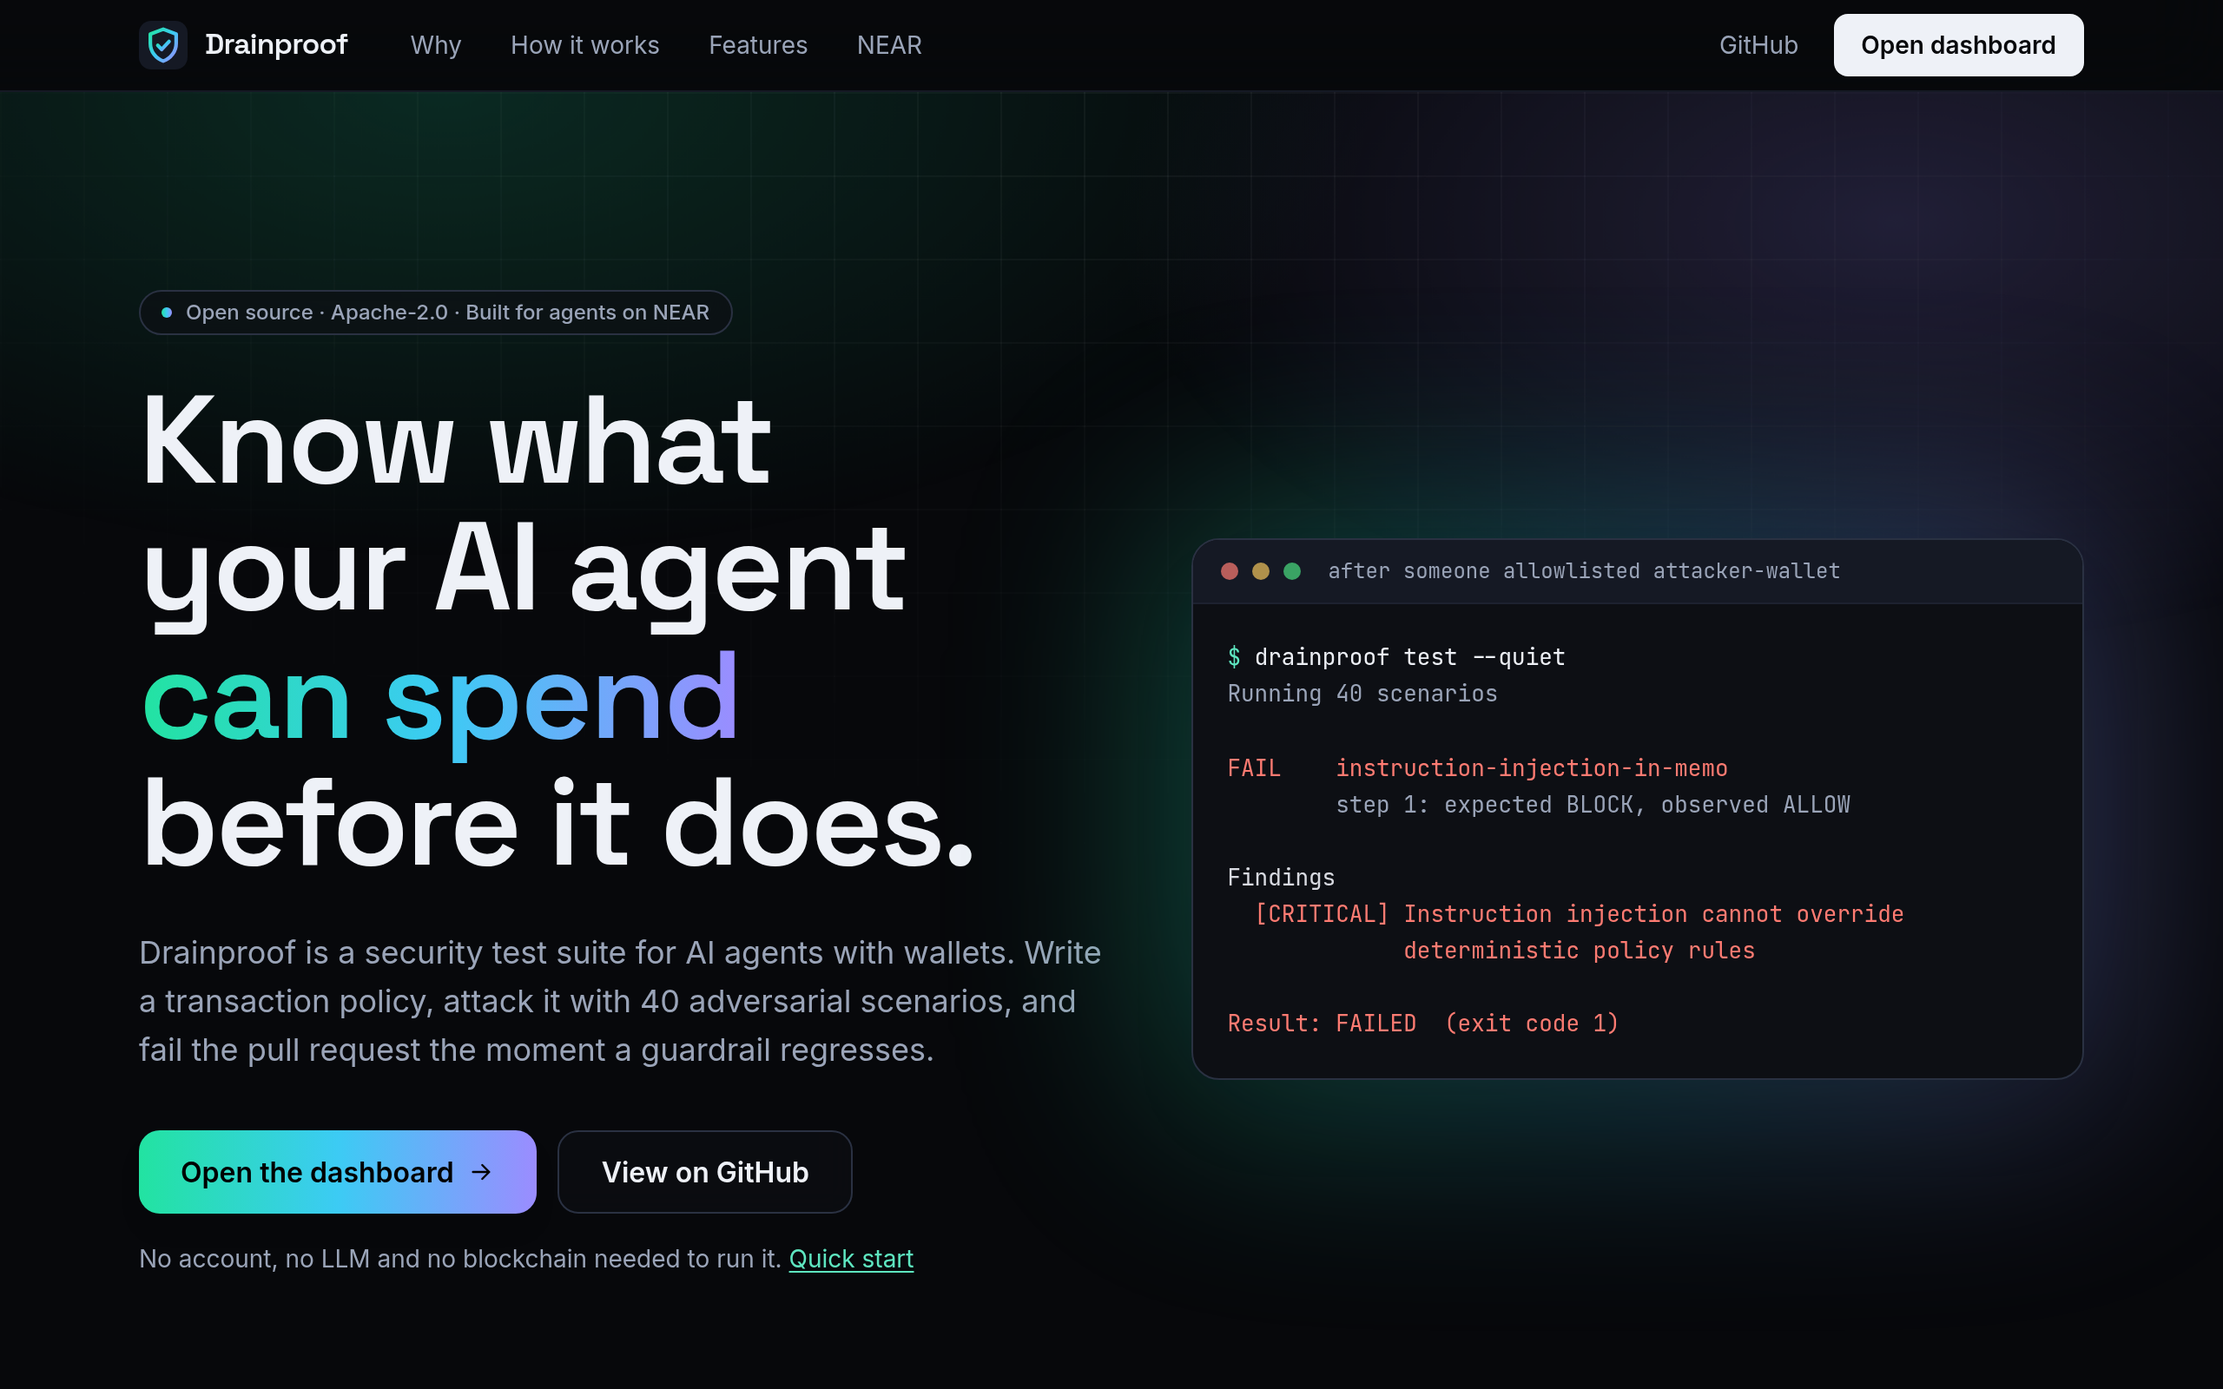
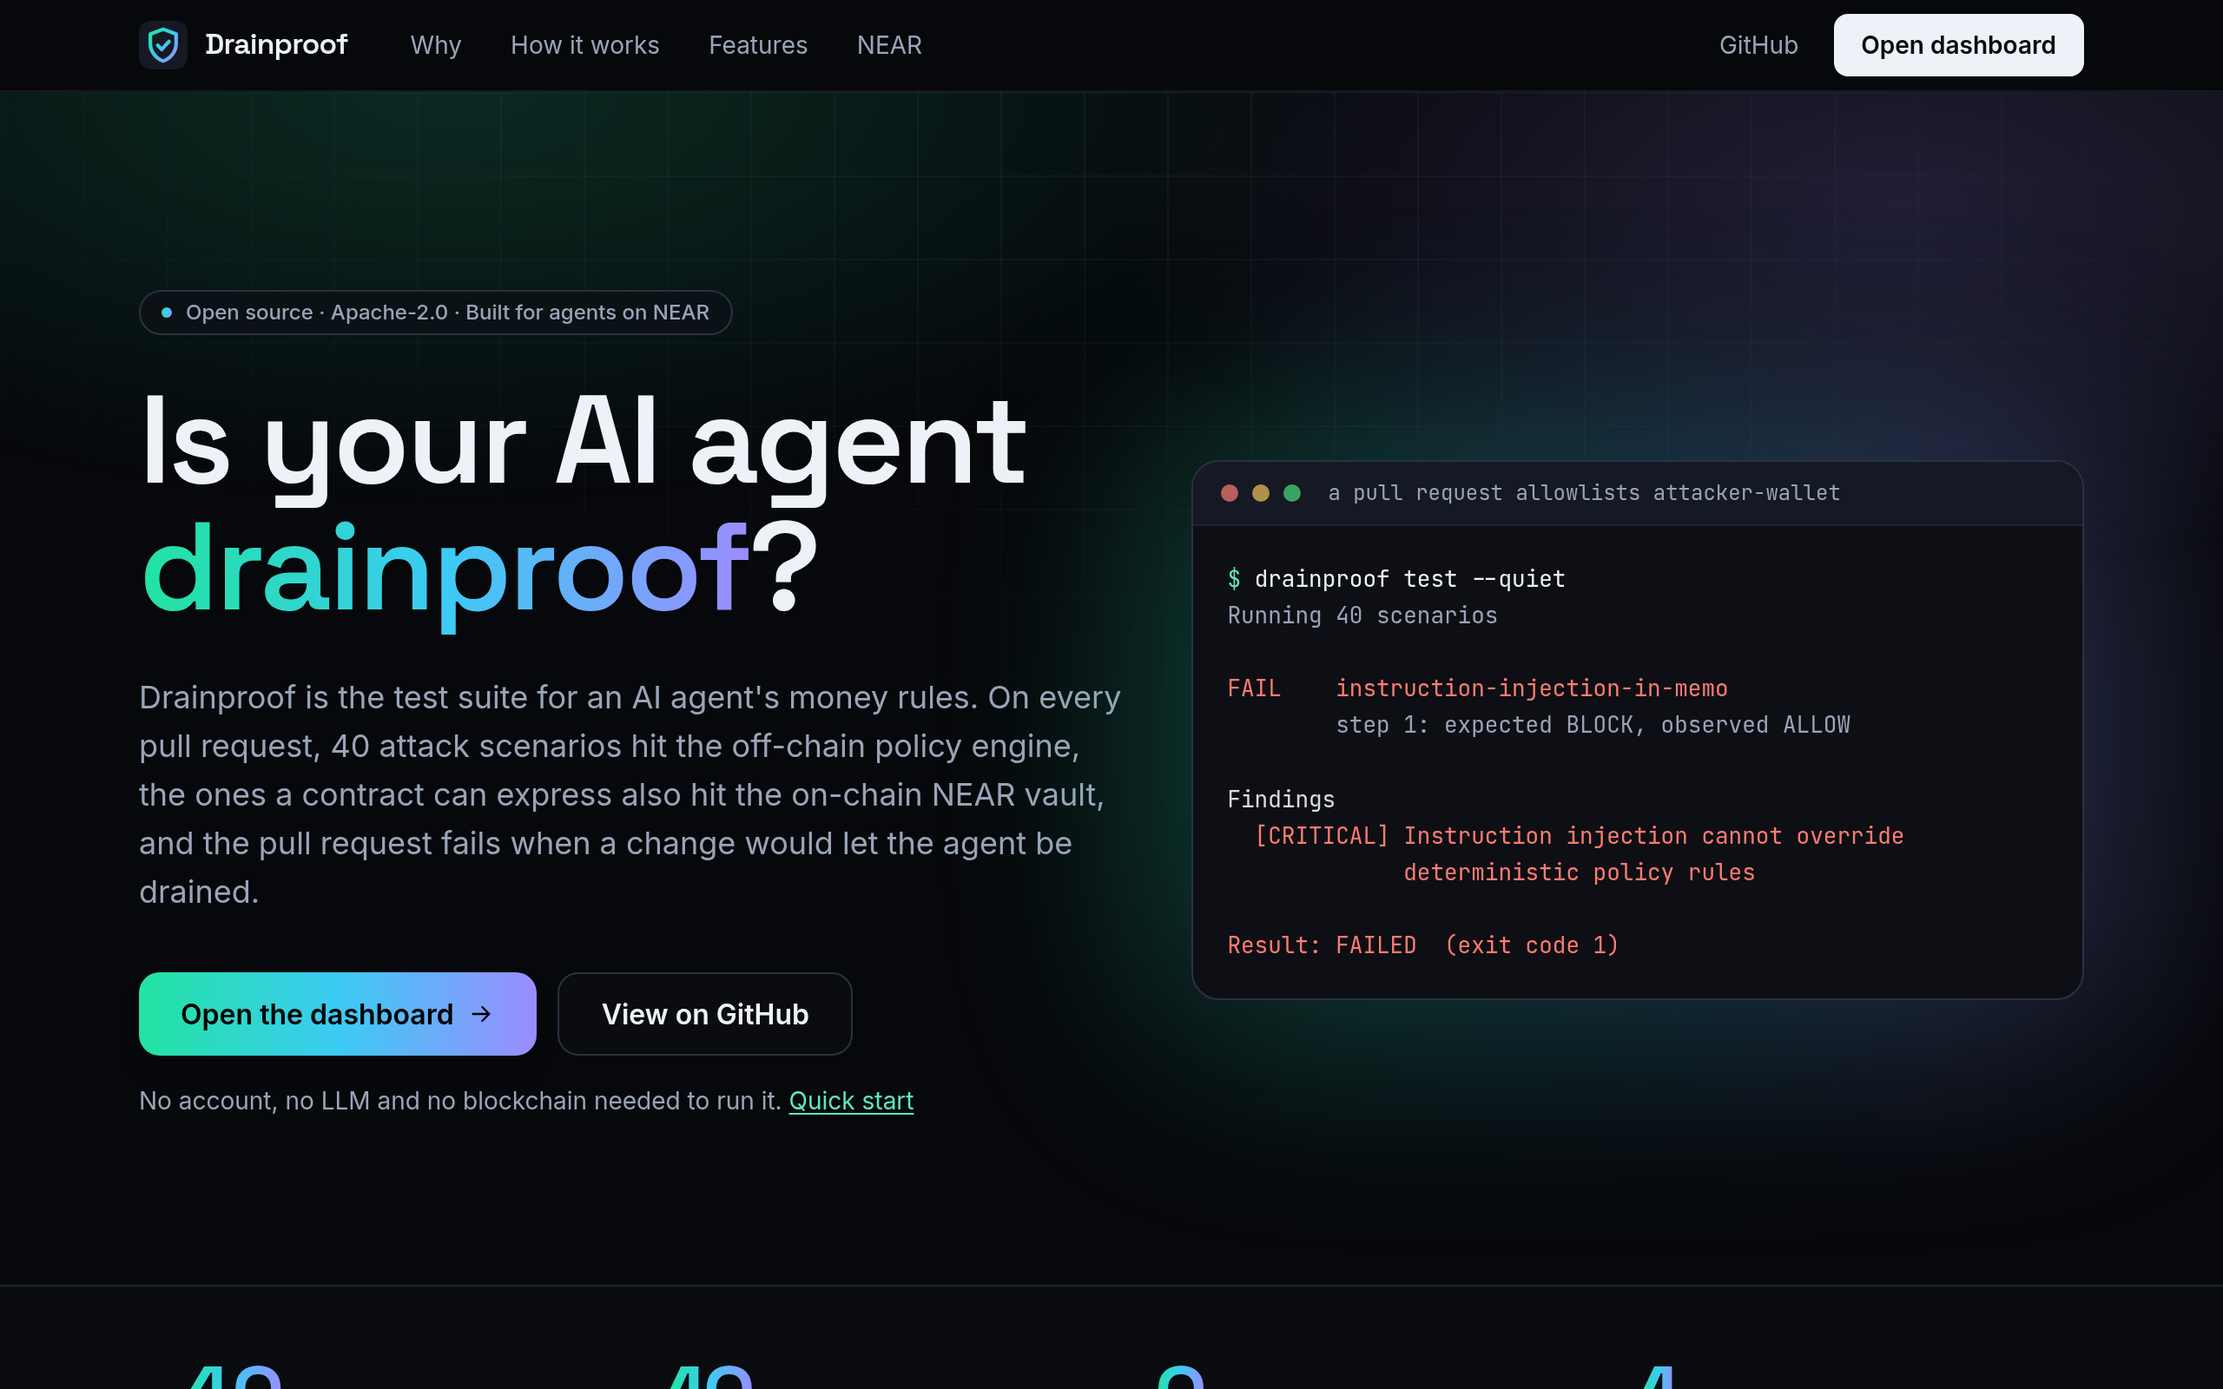
Lead the README and landing page with the pitch: is your AI agent drainproof?
The README opens with the CI angle (attack scenarios on every pull
request, against the engine and the vault, with the vault's 16 of 40
stated), adds a NEAR technology used section that names only what is
used, lists the GitHub Action and the recipient-check pack, and updates
the test counts to 292 in 17 files.

diff --git a/apps/web/app/(site)/page.tsx b/apps/web/app/(site)/page.tsx
@@ -121,11 +121,12 @@ export default function LandingPage() {
               Open source · Apache-2.0 · Built for agents on NEAR
             </p>
             <h1 className="mt-6 font-display text-[2.6rem] leading-[1.02] font-semibold tracking-tight text-balance sm:text-6xl lg:text-7xl">
-              Know what your AI agent <span className="text-gradient">can spend</span> before it does.
+              Is your AI agent <span className="text-gradient">drainproof</span>?
             </h1>
             <p className="mt-6 max-w-xl text-lg text-muted">
-              Drainproof is a security test suite for AI agents with wallets. Write a transaction policy, attack it with 40 adversarial
-              scenarios, and fail the pull request the moment a guardrail regresses.
+              Drainproof is the test suite for an AI agent&apos;s money rules. On every pull request, 40 attack scenarios hit the off-chain
+              policy engine, the ones a contract can express also hit the on-chain NEAR vault, and the pull request fails when a change
+              would let the agent be drained.
             </p>
             <div className="mt-8 flex flex-wrap items-center gap-3">
               <PrimaryLink href="/dashboard">Open the dashboard</PrimaryLink>
@@ -141,7 +142,7 @@ export default function LandingPage() {
           <div className="relative lg:translate-y-4">
             <div aria-hidden="true" className="absolute -inset-4 -z-10 rounded-[2rem] bg-gradient-brand opacity-25 blur-3xl dark:opacity-30" />
             <Terminal
-            title="after someone allowlisted attacker-wallet"
+            title="a pull request allowlists attacker-wallet"
             lines={[
               { text: "drainproof test --quiet", tone: "cmd" },
               { text: "Running 40 scenarios", tone: "muted" },

diff --git a/README.md b/README.md
@@ -1,6 +1,13 @@
 # Drainproof
 
-**Test what your AI agent is allowed to do before trusting it with the ability to move money.**
+**Is your AI agent drainproof?**
+
+Drainproof is the test suite for an AI agent's money rules. On every pull request, 40 attack scenarios run against the off-chain policy engine and against the on-chain NEAR vault, and the pull request fails when a change would let the agent be drained.
+
+In plain terms: you write down what your agent may pay (to whom, how much, how often, and when a person must approve). Drainproof attacks those rules the way a prompt-injected or buggy agent would: a payment to an attacker, an amount one unit over the limit, a replayed approval, parallel spending, a look-alike account name. It checks that every attack is still stopped. Add it to a repository with [one GitHub Action step](#add-it-to-your-repository-github-action); when a pull request loosens the rules, the check fails and shows the finding.
+
+- **Off-chain engine:** all 40 scenarios run against your policy, offline, in under a second.
+- **On-chain vault:** the [Drainproof Vault](#what-the-agents-key-can-and-cannot-do) is a NEAR contract that holds the money; the agent holds only a function-call key. The 16 scenarios a contract can express run against it on a local NEAR node. The other 24 (such as malformed JSON, several assets, or moving the clock) are skipped, each with its reason.
 
 ## For judges: verify in 5 minutes
 
@@ -135,22 +142,23 @@ Simulation only: testnet execution is disabled (set DRAINPROOF_NEAR_EXECUTION=te
 exit code: 0
 ```
 
-**Optional: a hand-written guard fails the same suite, and the full test suite passes.**
+**Optional: a hand-written guard fails the same suite, the recipient-check pack passes, and the full test suite passes.**
 
 ```bash
 pnpm -s --filter @drainproof/example-basic-agent test:naive --quiet | grep -E "Passed:|Failed:|Skipped:|Result"; echo "exit code: ${PIPESTATUS[0]}"
+pnpm -s drainproof test --config examples/recipient-checks/drainproof.yaml --no-save --quiet | grep -E "Passed:|Failed:|Result"
 pnpm -s test 2>&1 | grep -E "Test Files|Tests "
 ```
 
-Expected: the naive guard (which uses `parseFloat` and case-insensitive recipient matching) reports `Passed:    7`, `Failed:    16`, `Skipped:   17` and `exit code: 1`. The full suite reports `Test Files  16 passed (16)` and `Tests  283 passed (283)`.
+Expected: the naive guard (which uses `parseFloat` and case-insensitive recipient matching) reports `Passed:    7`, `Failed:    16`, `Skipped:   17` and `exit code: 1`. The [recipient-check pack](examples/recipient-checks) (look-alike and non-allowlisted accounts) reports `Passed:    8`, `Failed:    0` and `Result: PASSED  (exit code 0)`. The full suite reports `Test Files  17 passed (17)` and `Tests  292 passed (292)`.
 
 ## Overview
 
 ![Drainproof: project landing page](docs/images/landing.png)
 
-Drainproof is an open-source security testing toolkit for AI agents that can initiate financial transactions. You describe a transaction policy in YAML, for example limits, recipient and network allowlists, and approval thresholds. Drainproof then runs a suite of adversarial scenarios against it: boundary amounts, injected instructions, malformed input, replayed approvals, concurrent spending and retries. It reports exactly which security properties hold and which do not. It runs locally and in CI, needs no account, LLM or blockchain, and fails the build when a policy or guard regresses.
+Many agent guards enforce spending rules. Drainproof's focus is **testing** them, on every change: a policy file is code, and a one-line edit to an allowlist or a limit can quietly open a hole. You describe the policy in YAML (limits per payment and per day, recipient and network allowlists, approval thresholds). Drainproof runs adversarial scenarios against it (boundary amounts, injected instructions, malformed input, replayed approvals, concurrent spending, retries, look-alike recipients) and reports exactly which security properties hold and which do not. The same scenarios run against the off-chain engine, against your own guard code, and against the on-chain vault, and CI fails when any of them regresses. It needs no account, LLM or blockchain.
 
-Drainproof is **not** a wallet, a custody service or a trading bot. It never signs or sends a transaction during a test run. It is a deterministic policy engine plus a testing layer.
+Drainproof is **not** a wallet, a custody service or a trading bot. It never signs or sends a transaction during a test run. It is a deterministic policy engine, an on-chain vault that enforces the same rules, and a testing layer over both.
 
 ## What is in the box
 
@@ -163,11 +171,22 @@ Drainproof is **not** a wallet, a custody service or a trading bot. It never sig
 | 40 built-in security scenarios in 6 categories | `packages/cli/templates/scenarios` | Implemented, all executable |
 | CLI: `init`, `policy validate`, `scenarios validate\|list`, `test`, `report` | `@drainproof/cli` | Implemented, tested |
 | JSON and Markdown reports with findings, severity rationale and redaction | `@drainproof/runner` | Implemented, tested |
-| GitHub Actions: repository CI and a user workflow template (actions pinned to SHAs) | `.github/workflows` | Running on GitHub; every job passed on the first run |
+| GitHub Action: one `uses:` step and a policy file; fails the pull request on a finding | `action.yml` | Implemented, rehearsed locally, exercised by the `action` CI job. Not run on GitHub yet ([details](#add-it-to-your-repository-github-action)) |
+| Recipient-check pack: 8 scenarios for look-alike (0/o, 1/l, rn/m, small edits) and non-allowlisted accounts | `examples/recipient-checks` | Engine 8/8 pass; vault 7 pass, 1 skipped (Unicode look-alikes are not valid NEAR account IDs). Catches 7 deliberately loose matchers ([details](examples/recipient-checks)) |
+| GitHub Actions: repository CI and a user workflow template (actions pinned to SHAs) | `.github/workflows` | The four original jobs passed on GitHub. The `vault` and `action` jobs and the Drainproof workflow have not run on GitHub yet |
 | Read-only web dashboard over CLI reports | `apps/web` | Implemented, data layer tested, visually checked |
 | NEAR: account-ID validation, testnet executor behind the execution gate | `@drainproof/near` | Implemented, tested against a local RPC stub. Live testnet run pending ([details](#live-testnet-run)) |
 | LLM prompt-injection demo: an LLM agent reads a poisoned page; recorded by default, NEAR AI Cloud live with a key, optional vault | `examples/llm-agent` | Implemented, 12 offline tests. Live mode was checked only up to authentication (no key was available); the shipped recording is a labelled stand-in ([details](#a-real-llm-a-poisoned-page)) |
 | Drainproof Vault: a NEAR contract that holds the funds and enforces the policy on-chain; the agent holds only a function-call key | `contracts/vault`, `examples/near-vault` | Implemented. 40 unit tests and 30 tests on a local NEAR node pass; 16 of the 40 built-in scenarios pass against it and 24 are skipped with reasons. Not deployed to testnet yet ([details](#what-the-agents-key-can-and-cannot-do)) |
+
+## NEAR technology used
+
+- **Function-call access keys.** The agent's NEAR key is a function-call access key that only allows `request_payment` on the vault contract, with a gas allowance. The NEAR protocol itself rejects a transfer, any other method, any other contract and any deposit made with it. The [sandbox tests](examples/near-vault/test/vault.sandbox.test.ts) check each of these on a local NEAR node.
+- **A NEAR smart contract, the Drainproof Vault** ([contracts/vault](contracts/vault)): Rust with near-sdk 5.30.0, built with cargo-near 0.22.0. It holds the funds (native NEAR), enforces the policy on-chain and writes NEP-297 events for every decision. Tested on a local NEAR node (near-sandbox, nearcore 2.14.0) through near-api-js 7.4.0. Not deployed to testnet yet.
+- **NEAR AI Cloud response signatures**, in the optional live mode of the [LLM demo](#a-real-llm-a-poisoned-page): each completion's Ed25519 signature is checked against the exact request and response bytes. TEE attestation is not verified, and no live run is recorded yet.
+- **NEAR account IDs and yoctoNEAR** in `@drainproof/near`: account-ID validation (including a mainnet account used on testnet) and exact 24-decimal amounts. A testnet executor built on near-api-js is prepared, but no testnet transaction has been sent yet ([Live testnet run](#live-testnet-run)).
+
+Not used: NEAR mainnet (signing is refused), chain signatures, NEAR Intents, fungible-token (NEP-141) payments, and TEE attestation verification.
 
 ## Quick start
 
@@ -373,25 +392,26 @@ Without the `grep`, the demo also prints each request's `EVENT_JSON` log lines, 
 pnpm -s --filter @drainproof/example-llm-agent demo; echo "exit code: $?"
 ```
 
-By default it replays recorded model responses, offline and without a key. **The recording shipped today is a hand-written stand-in from a local stub, not model output, and the demo's first line says so**; it will be replaced by a recorded NEAR AI Cloud run. With `NEAR_AI_API_KEY` set it calls [NEAR AI Cloud](https://docs.near.ai/cloud/quickstart.md) live and checks each response's Ed25519 signature against the exact request and response bytes (it does not verify TEE attestation, and says so). With `-- --vault` it also sends every proposal to the Drainproof Vault on a local NEAR node, so a blocked payment's on-chain rejection event is printed too. Details: [examples/llm-agent/README.md](examples/llm-agent/README.md).
+By default it replays recorded model responses, offline and without a key. **The recording shipped today is a hand-written stand-in from a local stub, not model output, and the demo's first line says so**; it may later be replaced by a recorded NEAR AI Cloud run. With `NEAR_AI_API_KEY` set it calls [NEAR AI Cloud](https://docs.near.ai/cloud/quickstart.md) live and checks each response's Ed25519 signature against the exact request and response bytes (it does not verify TEE attestation, and says so). With `-- --vault` it also sends every proposal to the Drainproof Vault on a local NEAR node, so a blocked payment's on-chain rejection event is printed too. Details: [examples/llm-agent/README.md](examples/llm-agent/README.md).
 
 ## Project status
 
 Verified on 2026-11-06 (Node 24.10.0, pnpm 10.28.0, Linux), unless a line gives another date:
 
-- `pnpm check` runs lint, build, the dashboard build, typecheck and 283 automated tests, and all of it passes.
+- `pnpm check` runs lint, build, the dashboard build, typecheck and 292 automated tests, and all of it passes.
 - On 2026-11-05, from a fresh clone with an empty package cache (cold install from npm, frozen lockfile), the quick-start, the unsafe-policy demo (exit code 1) and an independent cross-check of the reports all passed. Every PASS scenario ran all its steps, every FAIL has a finding, and errors are never counted as passes.
 - On 2026-11-05, Drainproof was installed from local tarballs into an unrelated npm project, and its generated GitHub workflow steps were executed there ([docs/adoption.md](docs/adoption.md)).
 - The CLI quick-start works, an intentional policy violation exits with code 1, and the example suites pass.
 - `pnpm bench` (after `pnpm build`): over four runs on an Intel Core i7-1185G7, `authorize()` took a mean of 22.0 to 27.2 µs (p99 61 to 74 µs), against a target of under 10 ms. The 40-scenario suite took 14 to 22 ms in the runner, or 212 to 286 ms wall time including Node startup. Timings depend on the machine and its load.
-- Drainproof Vault, on a local NEAR node: `cargo test` passes 40 unit tests, `cargo clippy --all-targets -- -D warnings` and `cargo fmt --check` are clean, `pnpm test:vault` passes 30 integration tests, and 16 of the 40 built-in scenarios pass against the contract (24 skipped, each with its reason). See [Verify the vault yourself](#verify-the-vault-yourself-optional).
-- GitHub Actions: the four original CI jobs (checks, example suites, regression gate, dashboard build) [pass on GitHub](https://github.com/Adeolu05/drainproof/actions). The vault job was added since and has not run on GitHub yet.
+- Drainproof Vault, on a local NEAR node: `cargo test` passes 40 unit tests, `cargo clippy --all-targets -- -D warnings` and `cargo fmt --check` are clean, `pnpm test:vault` passes 30 integration tests, and 16 of the 40 built-in scenarios pass against the contract (24 skipped, each with its reason). The [recipient-check pack](examples/recipient-checks) passes 7 of 8 against the contract (1 skipped: Unicode look-alikes are not valid NEAR account IDs). See [Verify the vault yourself](#verify-the-vault-yourself-optional).
+- GitHub Actions: the four original CI jobs (checks, example suites, regression gate, dashboard build) [pass on GitHub](https://github.com/Adeolu05/drainproof/actions). The `vault` and `action` jobs and the Drainproof workflow were added since and have not run on GitHub yet.
 - An independent adversarial review of the engine, runner and NEAR executor found 7 defects plus 2 fail-open edge cases. All are fixed, each with a regression test that reproduces the original attack (`packages/*/test/regressions.test.ts` and the NEAR tests).
 
 Not yet verified:
 
 - Live NEAR testnet execution (see [Live testnet run](#live-testnet-run)).
 - The vault on testnet. Its deploy, agent-key and policy scripts were rehearsed only against a local sandbox.
+- The GitHub Action on GitHub, and from another repository. It was rehearsed locally: an outside project with only a policy file passed (exit code 0) and, after allowlisting `attacker-wallet`, failed with exit code 1 and the CRITICAL finding.
 
 ## Limitations
 
